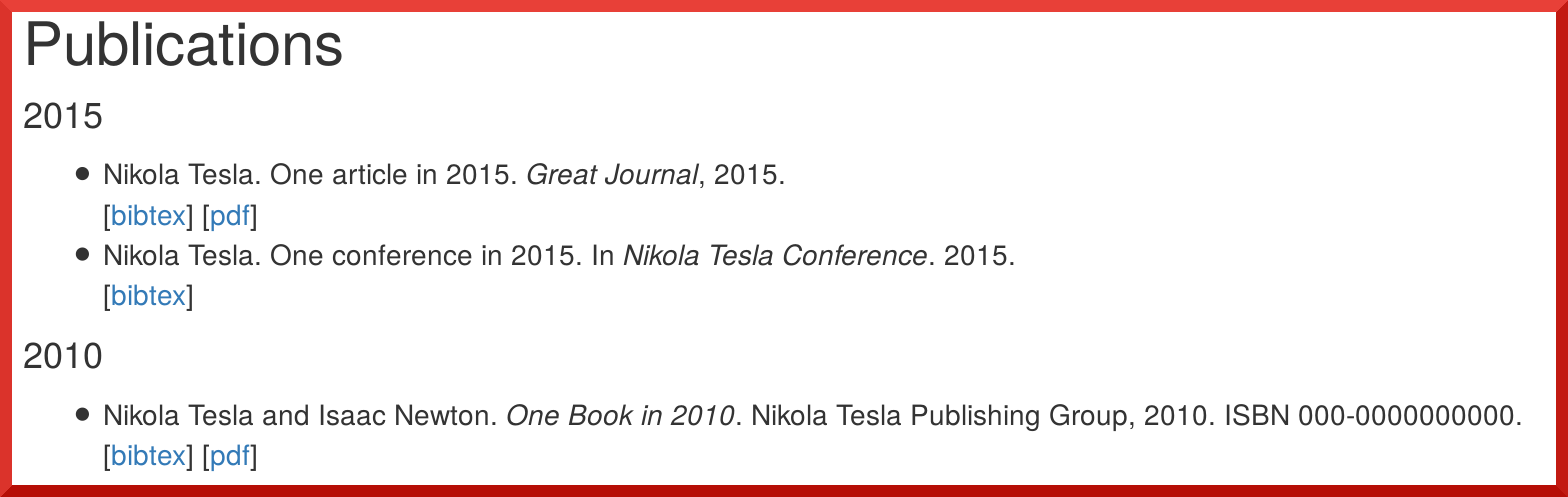
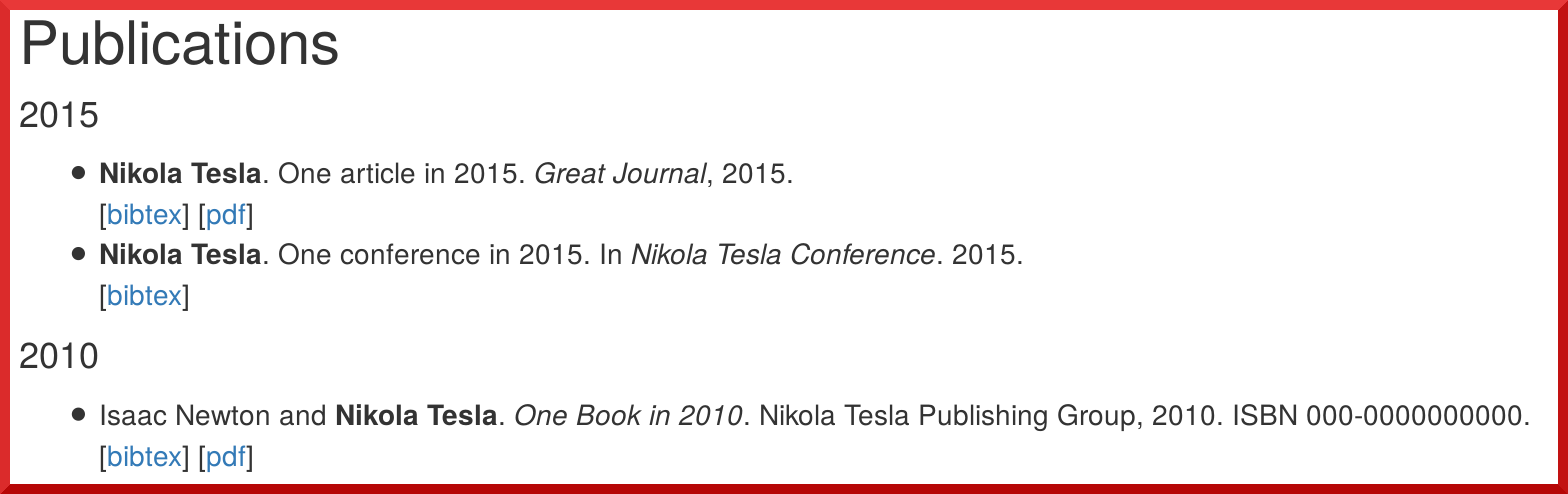
publication_list: add the feature to highlight an author.

diff --git a/v7/publication_list/publication_list.py b/v7/publication_list/publication_list.py
@@ -55,6 +55,7 @@ class PublicationList(Directive):
     required_arguments = 1
     option_spec = {
         'bibtex_dir': directives.unchanged,
+        'highlight_author': directives.unchanged,
         'style': directives.unchanged
     }
 
@@ -62,6 +63,7 @@ class PublicationList(Directive):
 
         style = find_plugin('pybtex.style.formatting', self.options.get('style', 'unsrt'))()
         bibtex_dir = self.options.get('bibtex_dir', 'bibtex')
+        highlight_author = self.options.get('highlight_author', None)
 
         parser = Parser()
 
@@ -87,8 +89,11 @@ class PublicationList(Directive):
                 cur_year = entry.fields['year']
                 html += '<h3>{}</h3>\n<ul>'.format(cur_year)
 
-            html += '<li class = "publication">{}'.format(
-                list(style.format_entries((entry,)))[0].text.render_as('html'))
+            pub_html = list(style.format_entries((entry,)))[0].text.render_as('html')
+            if highlight_author:  # highlight an author (usually oneself)
+                pub_html = pub_html.replace(highlight_author,
+                                            '<strong>{}</strong>'.format(highlight_author), 1)
+            html += '<li class = "publication">' + pub_html
 
             extra_links = ""
             if bibtex_dir:  # write bib files to bibtex_dir for downloading

diff --git a/tests/test_publication_list.py b/tests/test_publication_list.py
@@ -37,7 +37,7 @@ class TestPublication(ReSTExtensionTestCase):
             '<li class = "publication">.*One Book in 2010.*<a href="bibtex/b2010.bib">bibtex</a>.*<a href="http://example.org/b2010.pdf">pdf</a>.*</li>'
             '</ul></div>'
         )
-        self.sample = '.. publication_list:: tests/data/publication_list/test.bib'
+        self.sample = '.. publication_list:: tests/data/publication_list/test.bib\n\t:highlight_author: Nikola Tesla'
         self.basic_test()
         assert re.search(expected.replace('\n', '').strip(), self.html.replace('\n', '').strip())
 

diff --git a/v7/publication_list/README.md b/v7/publication_list/README.md
@@ -15,13 +15,16 @@ publication is formatted with the designated style.
 
 The `publication-list` directive accepts multiple options.
 
-* `:style:` indicates the style of the bibliography. All available styles are
-  provided by [Pybtex][]. You can see the [list of styles][] in the Pybtex
-  repository. The default style is `unsrt`.
-
 * `:bibtex_dir:` indicates the directory where the bibtex file of each
   publication is generated. If empty, no bibtex file will be created for each
   publication. The default is `bibtex`.
+
+* `:highlight_author:` indicates the author to highlight. Usually this is the
+  owner of the website.
+
+* `:style:` indicates the style of the bibliography. All available styles are
+  provided by [Pybtex][]. You can see the [list of styles][] in the Pybtex
+  repository. The default style is `unsrt`.
 
 Besides the options available above, if a publication entry has specified a
 "pdf" field with a URL to a pdf file, a "pdf" link will be shown below the
@@ -36,6 +39,7 @@ A simple example:
 
     .. publication_list:: my-publication.bib
        :style: unsrt
+       :highlight_author: Nikola Tesla
 
 where `my-publication.bib` contains:
 
@@ -51,7 +55,7 @@ where `my-publication.bib` contains:
 
     @book{b2010,
         title = {One Book in 2010},
-        author = {Nikola Tesla and Isaac Newton},
+        author = {Isaac Newton and Nikola Tesla},
         year = 2010,
         isbn = {000-0000000000},
         publisher = {Nikola Tesla Publishing Group},
